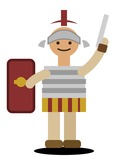
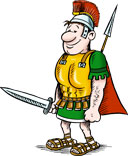
mm

diff --git a/tatar/tatar/tatar/gpack/novaterra/main_en.css b/tatar/tatar/tatar/gpack/novaterra/main_en.css
@@ -1,4 +1,8 @@
-@CHARSET "UTF-8";body{background-color:#FFF;direction:ltr;font-size:13px;line-height:19px;margin:0;text-align:left;}
+@CHARSET "UTF-8";
+/* بند 15 — طبقة الاستجابة؛ مضافة هنا كمان (مش بس main.css) عشان لو
+   main_en.css اتحمّل لوحده يوم ما من غير main.css يفضل الريسبونسف شغال. */
+@import url("../_responsive/responsive.css");
+body{background-color:#FFF;direction:ltr;font-size:13px;line-height:19px;margin:0;text-align:left;}
 html{overflow-y:scroll;}html,body{margin:0;padding:0;height:100%;}.clear{clear:both;display:block;font-size:0;height:0;line-height:0;visibility:hidden;}
 ul.menu,div.menu ul{list-style-type:none;margin:0;padding:0;}.menu li{float:left;}
 .wrapper{height:auto!important;height:100%;min-height:100%;min-width:845px;position:relative;text-align:center;}
